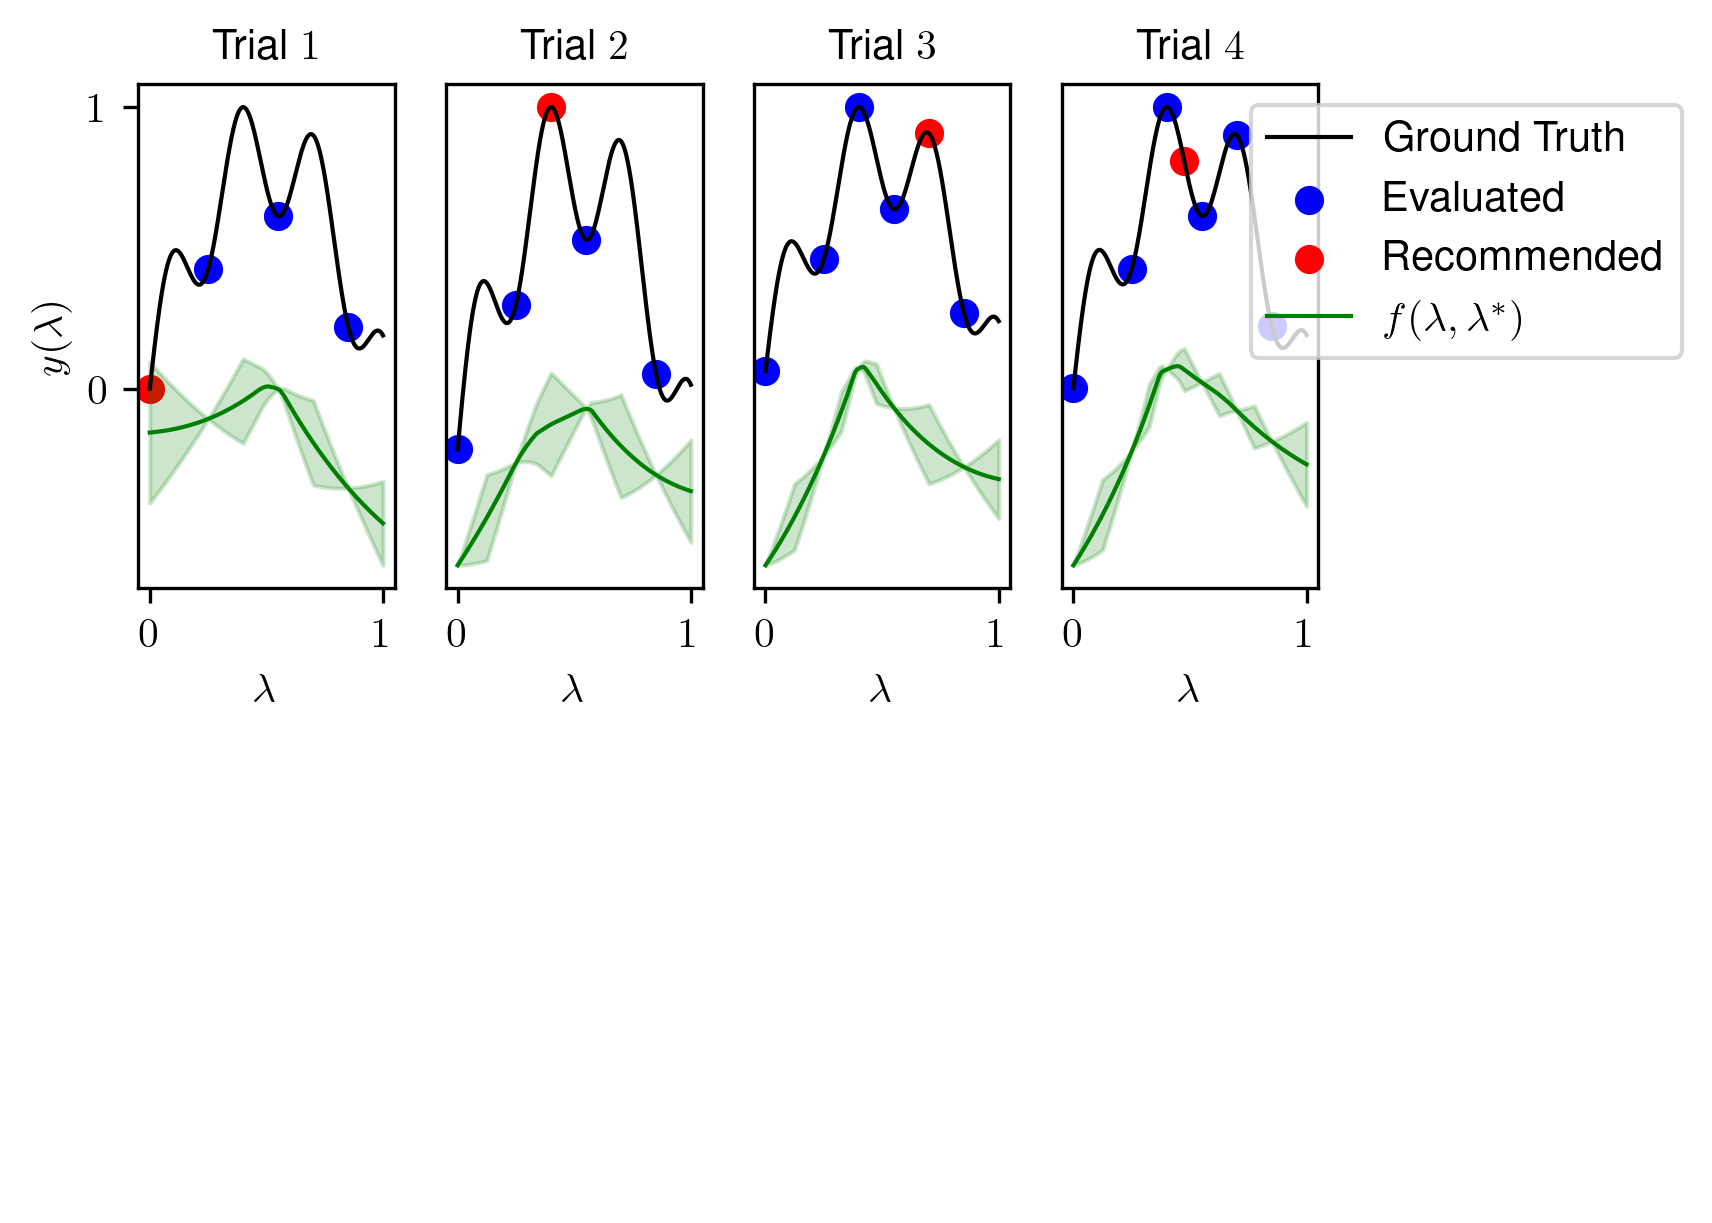
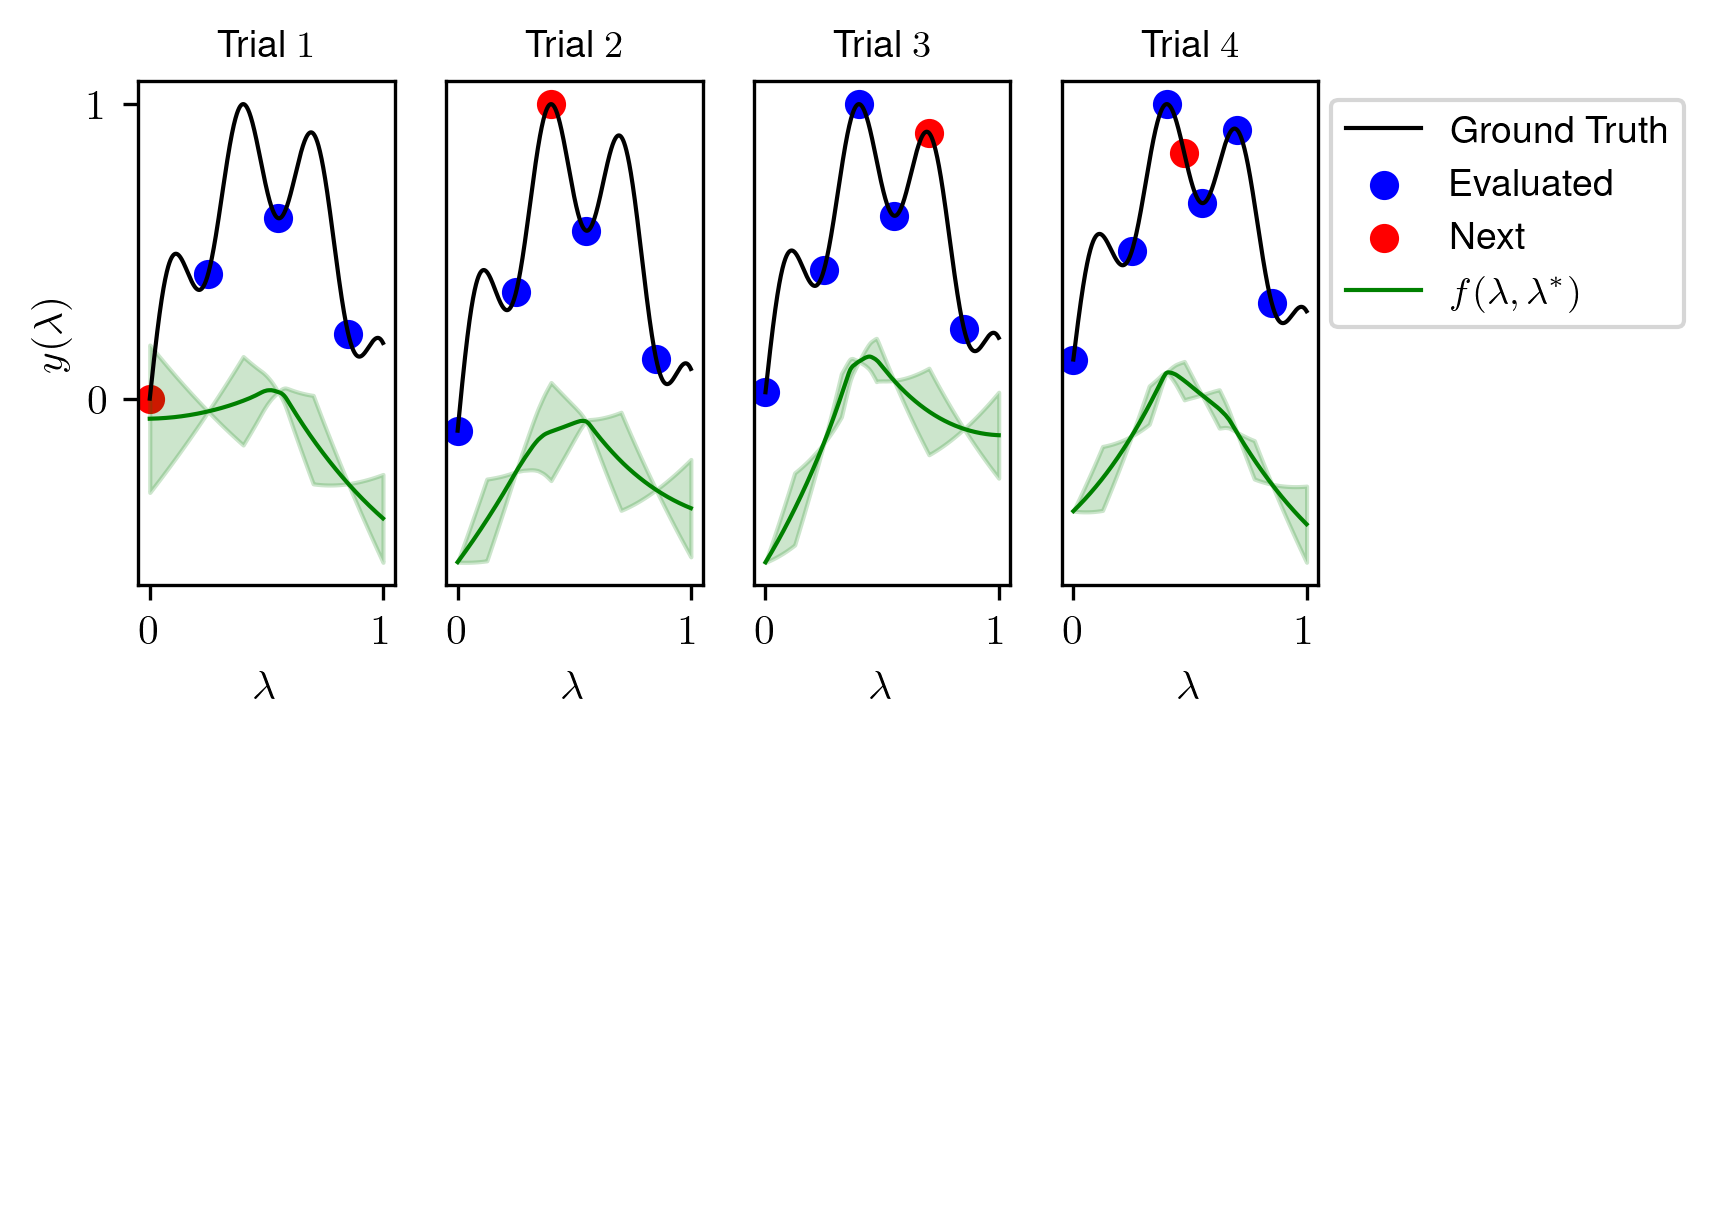
working version

diff --git a/poc/visualize_smbo.py b/poc/visualize_smbo.py
@@ -71,7 +71,7 @@ class visualize_smbo:
 
     def visualize_performance(self, trial):
 
-        fontsize = 10
+        fontsize = 9
 
         x_batch = self.smbo_method.inference_batch(batch_feasible_configs=self.X,
                                                    X_obs=self.X[self.current_evaluations_idxs],
@@ -98,7 +98,7 @@ class visualize_smbo:
         self.axs[row_idx, col_idx].plot(self.X, self.y, c="k", label="Ground Truth", linewidth=1.0)
         # plot the evaluated points so far
         self.axs[row_idx, col_idx].scatter(self.X[self.current_evaluations_idxs[:-1]], self.y[self.current_evaluations_idxs[:-1]], c="b", label="Evaluated")
-        self.axs[row_idx, col_idx].scatter(self.X[self.current_evaluations_idxs[-1]], self.y[self.current_evaluations_idxs[-1]], c="r", label="Recommended")
+        self.axs[row_idx, col_idx].scatter(self.X[self.current_evaluations_idxs[-1]], self.y[self.current_evaluations_idxs[-1]], c="r", label="Next")
         # plot the posterior mean
         self.axs[row_idx, col_idx].plot(self.X.ravel(), y_mean, c="g", label=r"$f(\lambda,\lambda^*)$", linewidth=1.0)
         self.axs[row_idx, col_idx].fill_between(self.X.ravel(), y_mean - y_std, y_mean + y_std, color='g', alpha=0.2)

diff --git a/methods/nn_bo_synth.py b/methods/nn_bo_synth.py
@@ -16,7 +16,7 @@ class NeuralNetworkBOSynth():
 
         # the hyper-hyperparameter configurations of the method
         if config is None:
-            self.config = {'is_rank_version': True, 'eta': 0.03, 'optim_iters': 300, 'train_batch_size': 1000,
+            self.config = {'is_rank_version': True, 'eta': 0.03, 'optim_iters': 300, 'train_batch_size': 300,
                            'acquisition_batch_size': 1000, 'log_iters': 300, 'hidden_layers_units': [64, 64],
                            'use_batch_norm': False, 'use_dropout': True, 'dropout_rate': 0.2,
                            'alpha': 0.5, 'beta': 4.0, 'gamma': 5.0}
